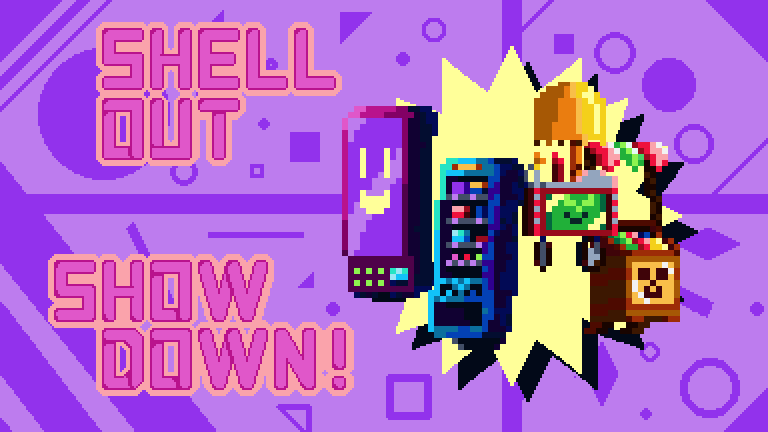
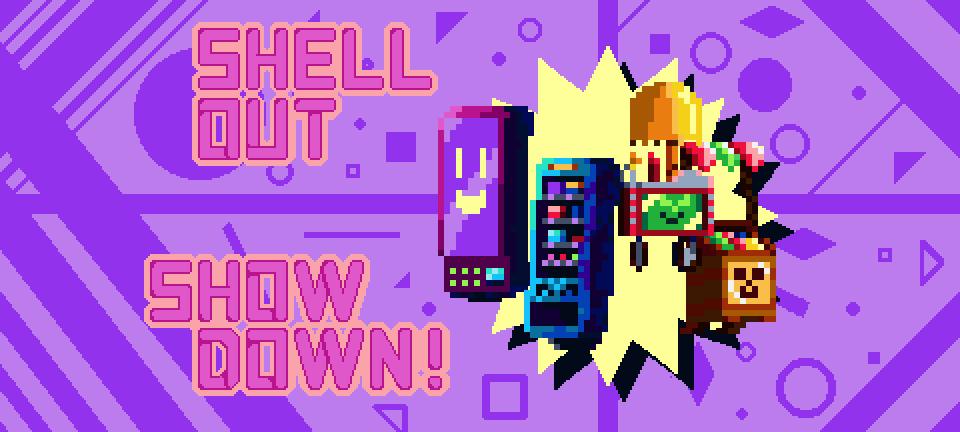
Updated tile image

diff --git a/shell-out-showdown.md b/shell-out-showdown.md
@@ -2,7 +2,7 @@
 layout: post
 title: Shell Out Showdown
 description: Lorem ipsum dolor est
-image: assets/images/shellout.png
+tile-image: assets/images/shellout.png
 nav-menu: true
 show-tile-title: false
 ---
